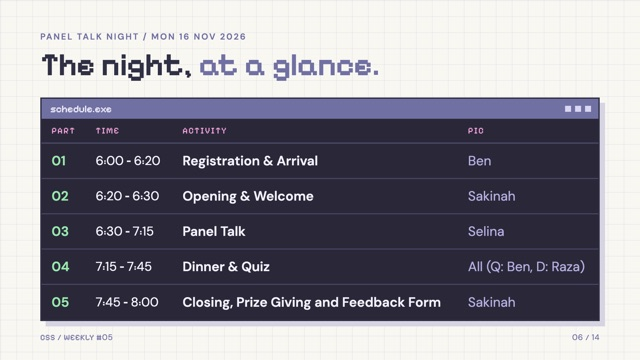
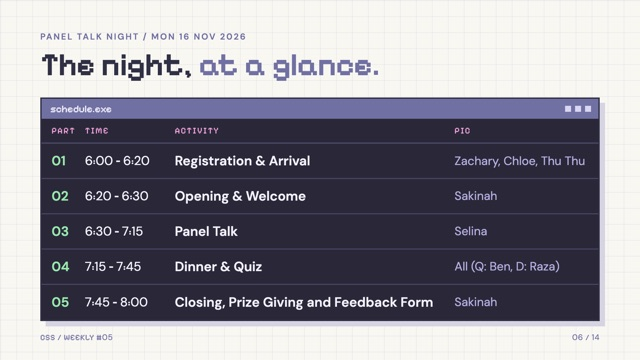
Weekly 05: registration PIC is Zachary, Chloe and Thu Thu, not Ben
Updates the schedule table and the Registration & Arrival slide.

diff --git a/weeklies/05-panel-talk/index.html b/weeklies/05-panel-talk/index.html
@@ -158,6 +158,12 @@
     .table-window td.tbd{color:var(--pink)}
     #sched .table-window{top:292px;height:672px}
     #sched td{height:106px}
+    #sched table{table-layout:fixed}
+    #sched th:nth-child(1){width:100px}
+    #sched th:nth-child(2){width:270px}
+    #sched th:nth-child(3){width:840px}
+    #sched td.pic{font-size:36px;line-height:1.2}
+    #sched td.pic span{white-space:nowrap}
     #actions .table-window{top:292px;height:672px}
     #actions td{height:90px;font-size:34px}
     #actions td.time{font-size:32px}
@@ -185,12 +191,13 @@
     .stat .label{font-size:22px}
     .stat b{display:block;font:600 52px/1.1 ClearDigits,Pixelify,monospace;white-space:nowrap}
     .stat.pic{background:var(--mint)}
+    .stat.pic b.names{font-size:32px;line-height:1.15;white-space:normal;padding-top:6px}
     .stat.pic .label{color:var(--ink)}
     .cols{display:grid;grid-template-columns:1fr 1fr;gap:40px}
     .cols.three{grid-template-columns:repeat(3,1fr);gap:28px}
     .panel{padding:30px 34px 34px;min-height:330px}
     .panel h3{font-size:38px;line-height:1.1;color:var(--ink);margin-bottom:20px}
-    .panel .label{margin-bottom:10px}
+    .panel .label{margin-bottom:18px}
     .panel ul{list-style:none;padding:0}
     .panel li{position:relative;padding-left:34px;font-size:32px;line-height:1.3;margin-bottom:16px}
     .panel li::before{content:">";position:absolute;left:0;color:var(--purple);font:600 32px ClearDigits,Pixelify,monospace}
@@ -350,7 +357,7 @@
         <table>
           <thead><tr><th>PART</th><th>TIME</th><th>ACTIVITY</th><th>PIC</th></tr></thead>
           <tbody>
-            <tr><td class="no">01</td><td class="time">6:00 – 6:20</td><td class="act">Registration &amp; Arrival</td><td class="pic">Ben</td></tr>
+            <tr><td class="no">01</td><td class="time">6:00 – 6:20</td><td class="act">Registration &amp; Arrival</td><td class="pic"><span>Zachary,</span> <span>Chloe,</span> <span>Thu Thu</span></td></tr>
             <tr><td class="no">02</td><td class="time">6:20 – 6:30</td><td class="act">Opening &amp; Welcome</td><td class="pic">Sakinah</td></tr>
             <tr><td class="no">03</td><td class="time">6:30 – 7:15</td><td class="act">Panel Talk</td><td class="pic">Selina</td></tr>
             <tr><td class="no">04</td><td class="time">7:15 – 7:45</td><td class="act">Dinner &amp; Quiz</td><td class="pic">All (Q: Ben, D: Raza)</td></tr>
@@ -363,12 +370,12 @@
     <section class="slide" aria-label="Slide 7: Registration &amp; Arrival" hidden>
       <div class="window rail pop" style="--d:0;--tilt:-2deg"><div class="window-bar"><span>part_1.exe</span><span class="lights" aria-hidden="true"><i></i><i></i><i></i></span></div><div class="body"><p class="label">PANEL TALK NIGHT</p><p class="date">Mon 16 Nov · 6–8 PM</p><ol aria-label="Event schedule"><li class="on" aria-current="step"><span><span class="t">6:00–6:20</span><span class="n">Registration &amp; Arrival</span></span></li><li class=""><span><span class="t">6:20–6:30</span><span class="n">Opening &amp; Welcome</span></span></li><li class=""><span><span class="t">6:30–7:15</span><span class="n">Panel Talk</span></span></li><li class=""><span><span class="t">7:15–7:45</span><span class="n">Dinner &amp; Quiz</span></span></li><li class=""><span><span class="t">7:45–8:00</span><span class="n">Closing, Prize Giving and Feedback Form</span></span></li></ol></div><p class="rail-next">NEXT &gt; Opening &amp; Welcome 6:20</p></div>
       <div class="main"><p class="eyebrow rise">PART 1 OF 5 / 6:00–6:20</p><h2 class="rise" style="--d:1">Registration &amp; Arrival</h2>
-<div class="stats"><div class="stat rise" style="--d:2"><p class="label">TIME</p><b>6:00–6:20</b></div><div class="stat rise" style="--d:3"><p class="label">LENGTH</p><b>20 min</b></div><div class="stat pic rise" style="--d:4"><p class="label">PIC</p><b>Ben</b></div></div>
+<div class="stats"><div class="stat rise" style="--d:2"><p class="label">TIME</p><b>6:00–6:20</b></div><div class="stat rise" style="--d:3"><p class="label">LENGTH</p><b>20 min</b></div><div class="stat pic rise" style="--d:4"><p class="label">PIC</p><b class="names">Zachary, Chloe, Thu Thu</b></div></div>
         <div class="cols">
-          <article class="card panel rise" style="--d:5"><p class="label">BEFORE 6:00</p><h3>Get ready</h3><ul>
+          <article class="card panel rise" style="--d:5"><p class="label">BEFORE 6:00</p><ul>
             <li><strong>Desai:</strong> speakers ready and here</li>
             <li>Light refreshments (drinks) ready</li></ul></article>
-          <article class="card panel rise" style="--d:6"><p class="label">REGISTRATION DESK</p><h3>On the desk</h3>
+          <article class="card panel rise" style="--d:6"><p class="label">REGISTRATION DESK</p>
             <div class="chips"><span class="chip" style="--c:var(--mint)">Zachary</span><span class="chip" style="--c:var(--pink)">Chloe</span><span class="chip" style="--c:var(--lavender)">Thu Thu</span></div>
             <p>Let people come in and register.</p></article>
         </div></div>
